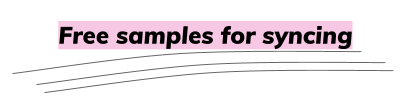
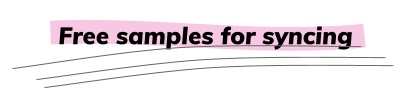
Sonlet picks email 190307
- Adds the html email for this week's sonlet's picks
- Updates the cta image to address Nicole's feedback

Changed region(s): [[0.0292, 0.1731, 0.9051, 0.6923], [0.0876, 0.5481, 0.9635, 0.8942], [0.0292, 0.6923, 0.0584, 0.7212]]

diff --git a/email_marketing/shops_waitlist/template_shops_email.html b/email_marketing/shops_waitlist/template_shops_email.html
@@ -14,8 +14,8 @@
 <body>
   <div id="email-container" style="width: 90%; max-width: 900px; margin: 0 auto; background-color: #ffffff;">
     <!--Header Image-->
-    <img style="border:0;display:block;height:auto;width:80%;max-width:600px; margin: 0 auto; margin-top: 20px; padding-top: 50px; padding-bottom: 10px;" alt="This week's Sonlet's Picks" src="https://wyattgrantham.com/marketing/Images/190228_ss_hero_2.png">
-    <p style="font-family: 'Muli', sans-serif; font-size: 15px; padding-bottom: 50px; margin: 0 auto; text-align: center; max-width: 600px;">Add these products and <strong>many </strong>more to your risk-free Sonlet Shop included with your Sonlet subscription. These featured items are only available until March 29!</p>
+    <img style="border:0;display:block;height:auto;width:80%;max-width:600px; margin: 0 auto; margin-top: 20px; padding-top: 50px; padding-bottom: 10px;" alt="This week's Sonlet's Picks" src="https://wyattgrantham.com/marketing/Images/190307_ss_hero_2.png">
+    <p style="font-family: 'Muli', sans-serif; font-size: 15px; padding-bottom: 50px; margin: 0 auto; text-align: center; max-width: 600px;">Add these products and many more to your risk-free Sonlet Shop included with your Sonlet subscription. These featured items are only available until April 5!</p>
   
     <!--Product Picks-->
     <div style="margin:0 auto;min-width:320px;word-wrap:break-word;word-break:break-word; display: block;">
@@ -24,49 +24,49 @@
       <div style="text-align:center;font-size:14px;line-height:21px;font-family: 'Muli',sans-serif; margin: 0 auto; max-width: 750px;">
         <!--Product 1-->
         <div class="product" style="margin-bottom: 20px; text-align: center; min-height: 240px; display: inline-block; width: 200px;">
-          <a href="https://sonlet.com/shops/b/sizwkZY7/" target="_blank"><img style="border:0;display:block;height:auto;width:100%;max-width:480px;" alt="Abby Skinny Jeans" src="https://wyattgrantham.com/marketing/Images/190228_abby_skinny.jpg"></a>
-          <h3 style="margin-top:0;margin-bottom:12px;font-size:15px;line-height:23px;text-align:center; color: #000000;font-weight: bold;">Abby Skinny Jeans</h3>
-          <a style="margin: 0 auto; text-align: center; border-radius:0;display:inline-block;font-size:11px;font-weight:bold;line-height:19px;padding:6px 12px;text-align:center;text-decoration:none!important;color:#000000!important;border:1px solid #000000;font-family: 'Muli',sans-serif; margin-bottom: 40px;" href="https://sonlet.com/shops/b/sizwkZY7/" target="_blank">ADD TO SHOP</a>
+          <a href="https://sonlet.com/shops/b/vocZzNk0/" target="_blank"><img style="border:0;display:block;height:auto;width:100%;max-width:480px;" alt="Olive Brushed Top" src="https://wyattgrantham.com/marketing/Images/190307_brushed_top.jpg"></a>
+          <h3 style="margin-top:0;margin-bottom:12px;font-size:15px;line-height:23px;text-align:center; color: #000000;font-weight: bold;">Olive Brushed Top</h3>
+          <a style="margin: 0 auto; text-align: center; border-radius:0;display:inline-block;font-size:11px;font-weight:bold;line-height:19px;padding:6px 12px;text-align:center;text-decoration:none!important;color:#000000!important;border:1px solid #000000;font-family: 'Muli',sans-serif; margin-bottom: 40px;" href="https://sonlet.com/shops/b/vocZzNk0/" target="_blank">ADD TO SHOP</a>
         </div>
 
         <!--Product 2-->
         <div class="product" style="margin-bottom: 20px; text-align: center; min-height: 240px; display: inline-block; width: 200px;">
-          <a href="https://sonlet.com/shops/b/sizwkZY7/" target="_blank"><img style="border:0;display:block;height:auto;width:100%;max-width:480px;" alt="Plus-size Kimono Dress" src="https://wyattgrantham.com/marketing/Images/190228_stripe_plus.jpg"></a>
-          <h3 style="margin-top:0;margin-bottom:12px;font-size:15px;line-height:23px;text-align:center; color: #000000;font-weight: bold;">Plus-size Kimono Dress</h3>
-          <a style="margin: 0 auto; text-align: center; border-radius:0;display:inline-block;font-size:11px;font-weight:bold;line-height:19px;padding:6px 12px;text-align:center;text-decoration:none!important;color:#000000!important;border:1px solid #000000;font-family: 'Muli',sans-serif; margin-bottom: 40px;" href="https://sonlet.com/shops/b/sizwkZY7/" target="_blank">ADD TO SHOP</a>
+          <a href="https://sonlet.com/shops/b/vocZzNk0/" target="_blank"><img style="border:0;display:block;height:auto;width:100%;max-width:480px;" alt="Tie Front Tee" src="https://wyattgrantham.com/marketing/Images/190307_grey_striped.jpg"></a>
+          <h3 style="margin-top:0;margin-bottom:12px;font-size:15px;line-height:23px;text-align:center; color: #000000;font-weight: bold;">Tie Front Tee</h3>
+          <a style="margin: 0 auto; text-align: center; border-radius:0;display:inline-block;font-size:11px;font-weight:bold;line-height:19px;padding:6px 12px;text-align:center;text-decoration:none!important;color:#000000!important;border:1px solid #000000;font-family: 'Muli',sans-serif; margin-bottom: 40px;" href="https://sonlet.com/shops/b/vocZzNk0/" target="_blank">ADD TO SHOP</a>
         </div>
       
         <!--Product 3-->
         <div class="product" style="margin-bottom: 20px; text-align: center; min-height: 240px; display: inline-block; width: 200px;">
-          <a href="https://sonlet.com/shops/b/sizwkZY7/" target="_blank"><img style="border:0;display:block;height:auto;width:100%;max-width:480px;" alt="Sienna Pull-On Legging" src="https://wyattgrantham.com/marketing/Images/190228_sienna.jpg"></a>
-          <h3 style="margin-top:0;margin-bottom:12px;font-size:15px;line-height:23px;text-align:center; color: #000000;font-weight: bold;">Sienna Pull-On Legging</h3>
-          <a style="margin: 0 auto; text-align: center; border-radius:0;display:inline-block;font-size:11px;font-weight:bold;line-height:19px;padding:6px 12px;text-align:center;text-decoration:none!important;color:#000000!important;border:1px solid #000000;font-family: 'Muli',sans-serif; margin-bottom: 40px;" href="https://sonlet.com/shops/b/sizwkZY7/" target="_blank">ADD TO SHOP</a>
+          <a href="https://sonlet.com/shops/b/vocZzNk0/" target="_blank"><img style="border:0;display:block;height:auto;width:100%;max-width:480px;" alt="Black Flare Pants" src="https://wyattgrantham.com/marketing/Images/190307_black_pants.jpg"></a>
+          <h3 style="margin-top:0;margin-bottom:12px;font-size:15px;line-height:23px;text-align:center; color: #000000;font-weight: bold;">Black Flare Pants</h3>
+          <a style="margin: 0 auto; text-align: center; border-radius:0;display:inline-block;font-size:11px;font-weight:bold;line-height:19px;padding:6px 12px;text-align:center;text-decoration:none!important;color:#000000!important;border:1px solid #000000;font-family: 'Muli',sans-serif; margin-bottom: 40px;" href="https://sonlet.com/shops/b/vocZzNk0/" target="_blank">ADD TO SHOP</a>
         </div>
 
         <!--Product 4-->
         <div class="product" style="margin-bottom: 20px; text-align: center; min-height: 240px; display: inline-block; width: 200px;">
-          <a href="https://sonlet.com/shops/b/sizwkZY7/" target="_blank"><img style="border:0;display:block;height:auto;width:100%;max-width:480px;" alt="Kimono Sleeve Dress" src="https://wyattgrantham.com/marketing/Images/190228_stripe.jpg"></a>
-          <h3 style="margin-top:0;margin-bottom:12px;font-size:15px;line-height:23px;text-align:center; color: #000000;font-weight: bold;">Kimono Sleeve Dress</h3>
-          <a style="margin: 0 auto; text-align: center; border-radius:0;display:inline-block;font-size:11px;font-weight:bold;line-height:19px;padding:6px 12px;text-align:center;text-decoration:none!important;color:#000000!important;border:1px solid #000000;font-family: 'Muli',sans-serif; margin-bottom: 40px;" href="https://sonlet.com/shops/b/sizwkZY7/" target="_blank">ADD TO SHOP</a>
+          <a href="https://sonlet.com/shops/b/vocZzNk0/" target="_blank"><img style="border:0;display:block;height:auto;width:100%;max-width:480px;" alt="Speckle Leggings" src="https://wyattgrantham.com/marketing/Images/190307_speckle_legging.jpg"></a>
+          <h3 style="margin-top:0;margin-bottom:12px;font-size:15px;line-height:23px;text-align:center; color: #000000;font-weight: bold;">Speckle Leggings</h3>
+          <a style="margin: 0 auto; text-align: center; border-radius:0;display:inline-block;font-size:11px;font-weight:bold;line-height:19px;padding:6px 12px;text-align:center;text-decoration:none!important;color:#000000!important;border:1px solid #000000;font-family: 'Muli',sans-serif; margin-bottom: 40px;" href="https://sonlet.com/shops/b/vocZzNk0/" target="_blank">ADD TO SHOP</a>
         </div>
 
         <!--Product 5-->
         <div class="product" style="margin-bottom: 20px; text-align: center; min-height: 240px; display: inline-block; width: 200px;">
-          <a href="https://sonlet.com/shops/b/sizwkZY7/" target="_blank"><img style="border:0;display:block;height:auto;width:100%;max-width:480px;" alt="Eyelet Top" src="https://wyattgrantham.com/marketing/Images/190228_eyelet.jpg"></a>
-          <h3 style="margin-top:0;margin-bottom:12px;font-size:15px;line-height:23px;text-align:center; color: #000000;font-weight: bold;">Eyelet Top</h3>
-          <a style="margin: 0 auto; text-align: center; border-radius:0;display:inline-block;font-size:11px;font-weight:bold;line-height:19px;padding:6px 12px;text-align:center;text-decoration:none!important;color:#000000!important;border:1px solid #000000;font-family: 'Muli',sans-serif; margin-bottom: 40px;" href="https://sonlet.com/shops/b/sizwkZY7/" target="_blank">ADD TO SHOP</a>
+          <a href="https://sonlet.com/shops/b/vocZzNk0/" target="_blank"><img style="border:0;display:block;height:auto;width:100%;max-width:480px;" alt="Take Me Back Top" src="https://wyattgrantham.com/marketing/Images/190307_black_top.jpg"></a>
+          <h3 style="margin-top:0;margin-bottom:12px;font-size:15px;line-height:23px;text-align:center; color: #000000;font-weight: bold;">Take Me Back Top</h3>
+          <a style="margin: 0 auto; text-align: center; border-radius:0;display:inline-block;font-size:11px;font-weight:bold;line-height:19px;padding:6px 12px;text-align:center;text-decoration:none!important;color:#000000!important;border:1px solid #000000;font-family: 'Muli',sans-serif; margin-bottom: 40px;" href="https://sonlet.com/shops/b/vocZzNk0/" target="_blank">ADD TO SHOP</a>
         </div>
 
         <!--Product 6-->
         <div class="product" style="margin-bottom: 20px; text-align: center; min-height: 240px; display: inline-block; width: 200px;">
-          <a href="https://sonlet.com/shops/b/sizwkZY7/" target="_blank"><img style="border:0;display:block;height:auto;width:100%;max-width:480px;" alt="Layered Sleeve Blouse" width="160" src="https://wyattgrantham.com/marketing/Images/190228_flare.jpg"></a>
-          <h3 style="margin-top:0;margin-bottom:12px;font-size:15px;line-height:23px;text-align:center; color: #000000;font-weight: bold;">Layered Sleeve Blouse</h3>
-          <a style="margin: 0 auto; text-align: center; border-radius:0;display:inline-block;font-size:11px;font-weight:bold;line-height:19px;padding:6px 12px;text-align:center;text-decoration:none!important;color:#000000!important;border:1px solid #000000;font-family: 'Muli',sans-serif;margin-bottom: 40px;" href="https://sonlet.com/shops/b/sizwkZY7/" target="_blank">ADD TO SHOP</a>
+          <a href="https://sonlet.com/shops/b/vocZzNk0/" target="_blank"><img style="border:0;display:block;height:auto;width:100%;max-width:480px;" alt="Floral Leggings" width="160" src="https://wyattgrantham.com/marketing/Images/190307_floral_leggings.jpg"></a>
+          <h3 style="margin-top:0;margin-bottom:12px;font-size:15px;line-height:23px;text-align:center; color: #000000;font-weight: bold;">Floral Leggings</h3>
+          <a style="margin: 0 auto; text-align: center; border-radius:0;display:inline-block;font-size:11px;font-weight:bold;line-height:19px;padding:6px 12px;text-align:center;text-decoration:none!important;color:#000000!important;border:1px solid #000000;font-family: 'Muli',sans-serif;margin-bottom: 40px;" href="https://sonlet.com/shops/b/vocZzNk0/" target="_blank">ADD TO SHOP</a>
         </div>
         
         <!--Promo-->
-        <a style="text-align: center; margin: 0 auto;" href="https://sonlet.com/shops/b/sizwkZY7/" target="_blank"><img src="https://wyattgrantham.com/marketing/Images/190228_ss_cta_b.png"></a>
-        <p style="font-family: 'Muli', sans-serif; text-align: center; margin: 0 auto; display: block; font-size: 18px;">We've just launched our new denim supplier and really need your feedback.  Just purchase <a href="https://sonlet.com/shops/b/jPsMrwAl/" target="_blank">any pair of jeans from Sonlet Shops</a> before 3/7/19 and we'll refund the price of the jeans, plus shipping and tax the next day.  Don't want to pay first?  No problem. Just send us an email at support@sonlet.com with your username, address, and the jeans and size you want to try before 3/7/19, and we'll ship them to you free of charge. The day after your jeans arrive, we'll send you an email asking for your honest review. That's it! You scored free jeans!</p>
+        <a style="text-align: center; margin: 0 auto;" href="https://sonlet.com/shops/b/vocZzNk0/" target="_blank"><img src="https://wyattgrantham.com/marketing/Images/190307_ss_cta.png"></a>
+        <p style="font-family: 'Muli', sans-serif; text-align: center; margin: 0 auto; display: block; font-size: 18px;">Just <a href="https://support.sonlet.com/support/solutions/articles/16000092172-how-to-sync-your-shop-with-facebook" target="_blank">sync your Sonlet Shop with Facebook</a> before March 14th and we'll send you any item of your choice from Sonlet Shops.  Upon syncing your Sonlet Shop with Facebook, we'll send you an email confirming you've earned the reward.  You'll then be able to purchase any item on Sonlet Shops and receive a refund the next day, or simply reply directly to the email with the item and size you'd like, and we'll order it and ship it to you!</p>
         <br>
         <!--/Promo-->
       </div><!--/Product Group-->
@@ -76,9 +76,9 @@
     <div style="margin:0 auto; min-width: 280px;word-wrap:break-word;word-break:break-word; display: block; margin-left: 20px; margin-right: 20px; margin-bottom: 40px; margin-top: 50px; border-radius: 4px; text-align: center;">
       <img src="https://wyattgrantham.com/marketing/Images/ss_training.png" style="border:0;display:block;height:auto;width:80%;max-width:600px; margin: 0 auto; margin-top: 20px;" alt="Come Sell with Us!">
       <!--Training Video-->
-      <a href="https://support.sonlet.com/support/solutions/articles/16000087859-how-to-setup-sonlet-shops" target="_blank" style="margin: 0 auto; margin-bottom: 20px; margin-top: 20px; text-align: center; display: inline-block; width: 200px;font-family: 'Muli', sans-serif; text-decoration: none;">
+      <a href="https://support.sonlet.com/support/solutions/articles/16000092172-how-to-sync-your-shop-with-facebook" target="_blank" style="margin: 0 auto; margin-bottom: 20px; margin-top: 20px; text-align: center; display: inline-block; width: 200px;font-family: 'Muli', sans-serif; text-decoration: none;">
         <img style="border:0;display:block;height:auto;width:100%;max-width:320px;" alt="Link to How-to Video" src="https://wyattgrantham.com/marketing/Images/how_to_ss.png">
-        <h3 style="margin-left:20px;margin-right:20px;margin-top:0;margin-bottom:0px;font-size:15px;line-height:23px;text-align:center; color: #000000;font-weight: bold; font-family: 'Muli', sans-serif !important;">HOW TO SETUP SONLET SHOPS (6:29)</h3>
+        <h3 style="margin-left:20px;margin-right:20px;margin-top:0;margin-bottom:0px;font-size:15px;line-height:23px;text-align:center; color: #000000;font-weight: bold; font-family: 'Muli', sans-serif !important;">HOW TO SYNC SONLET SHOPS TO FACEBOOK (5:01)</h3>
       </a>
       <a href="https://support.sonlet.com/support/solutions/16000060109" target="_blank" style="margin: 0 auto; margin-left:20px;margin-right:20px; margin-bottom: 20px; margin-top: 20px; padding-bottom:20px; text-align: center; display: block; font-family: 'Muli', sans-serif;  text-decoration: none;">View All Training</a>
     </div><!--/Training-->
